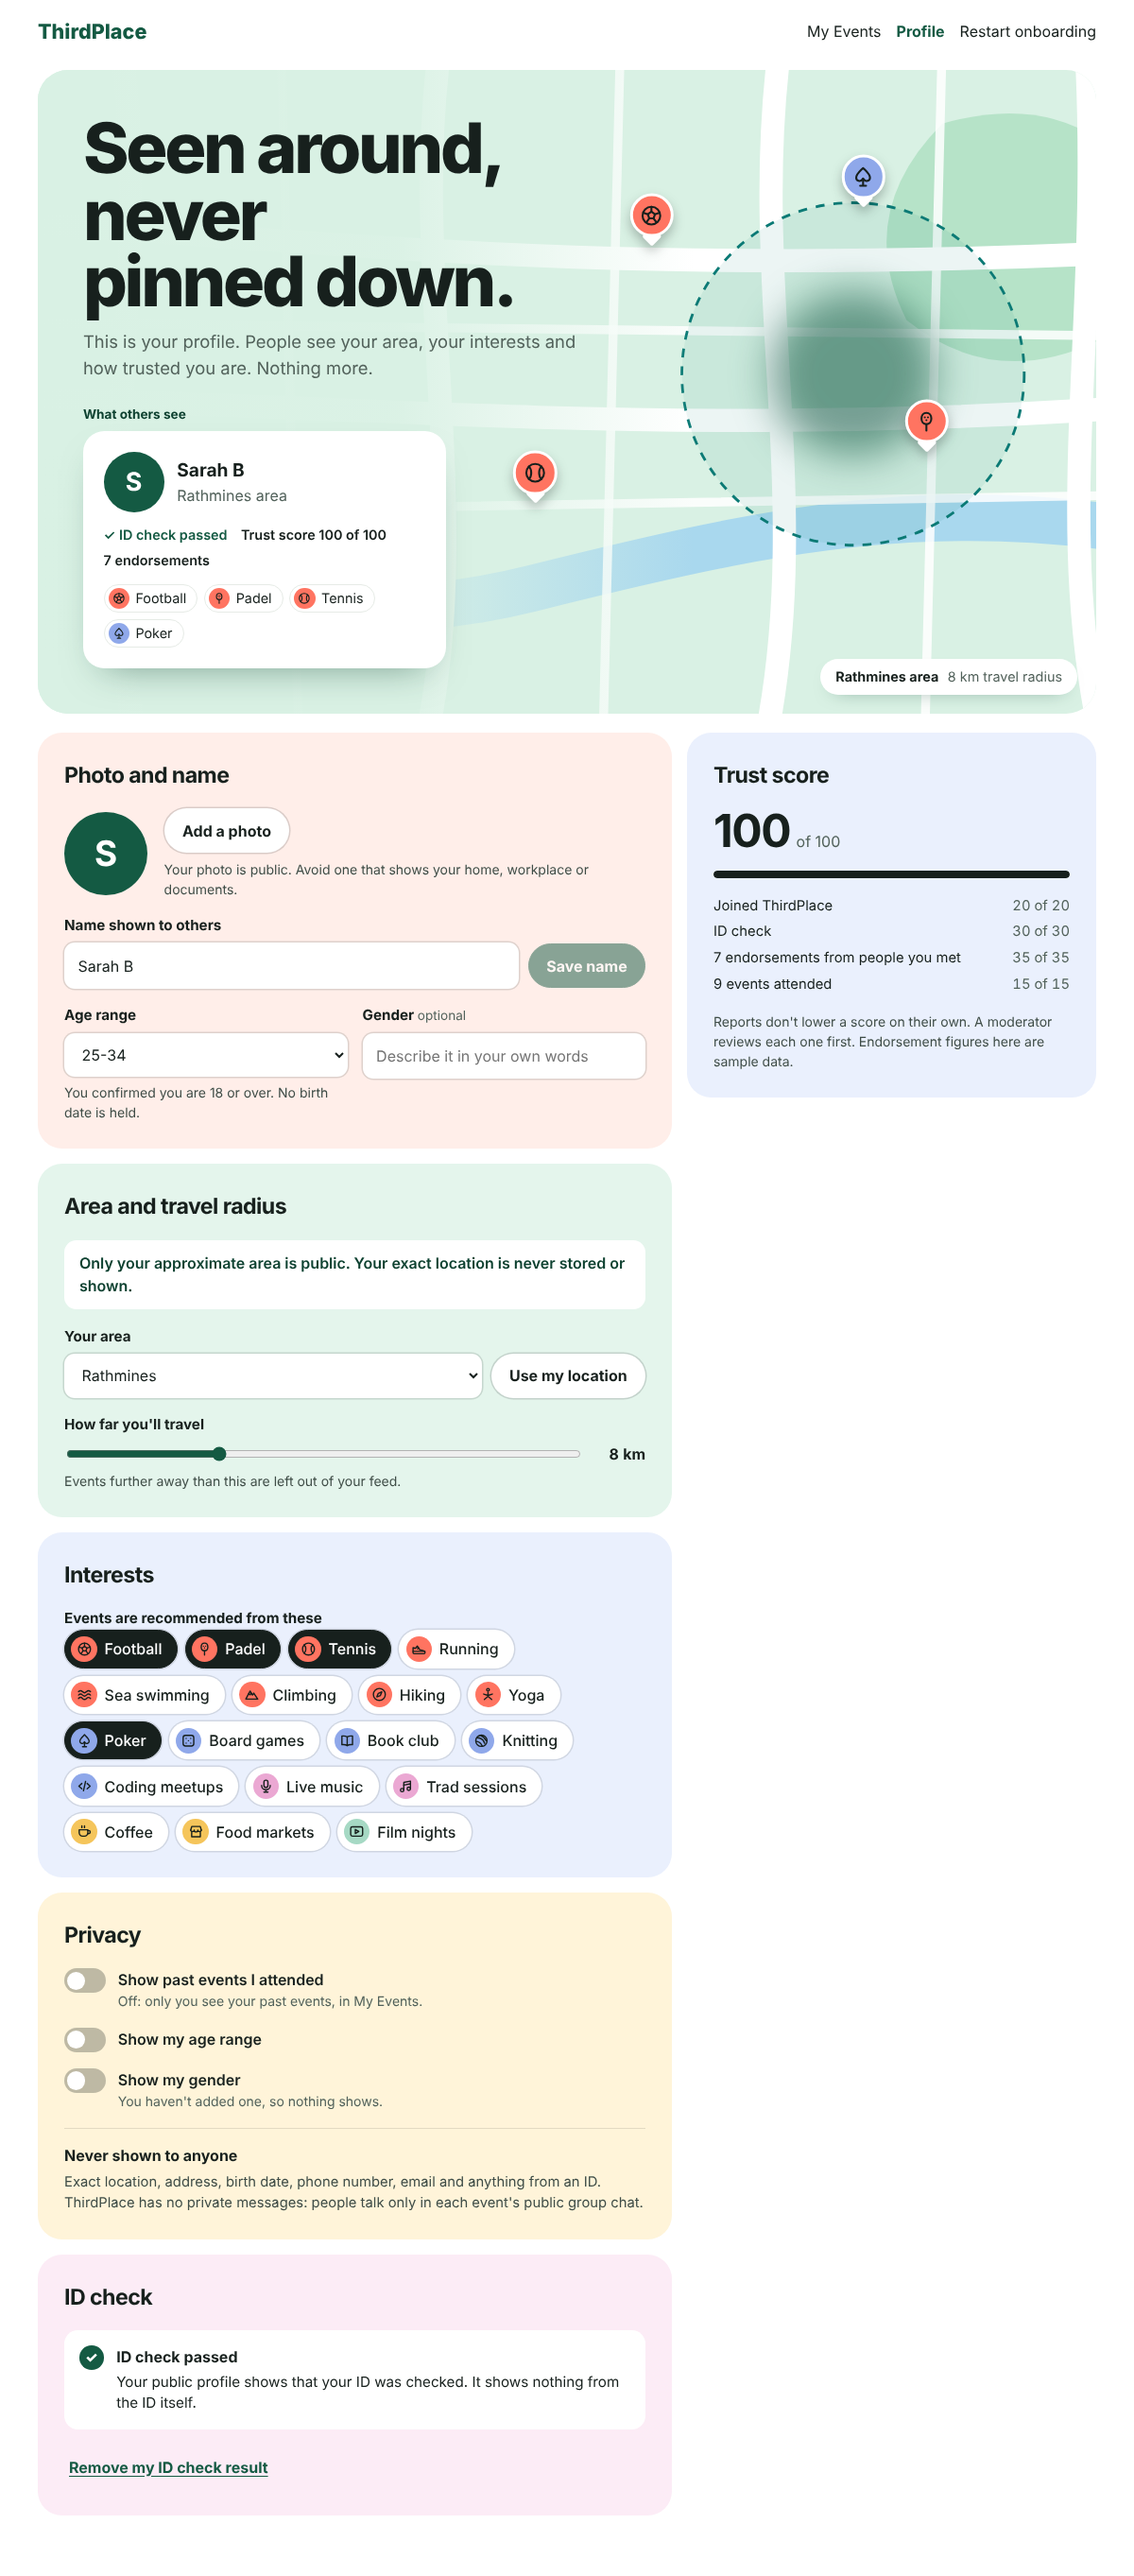
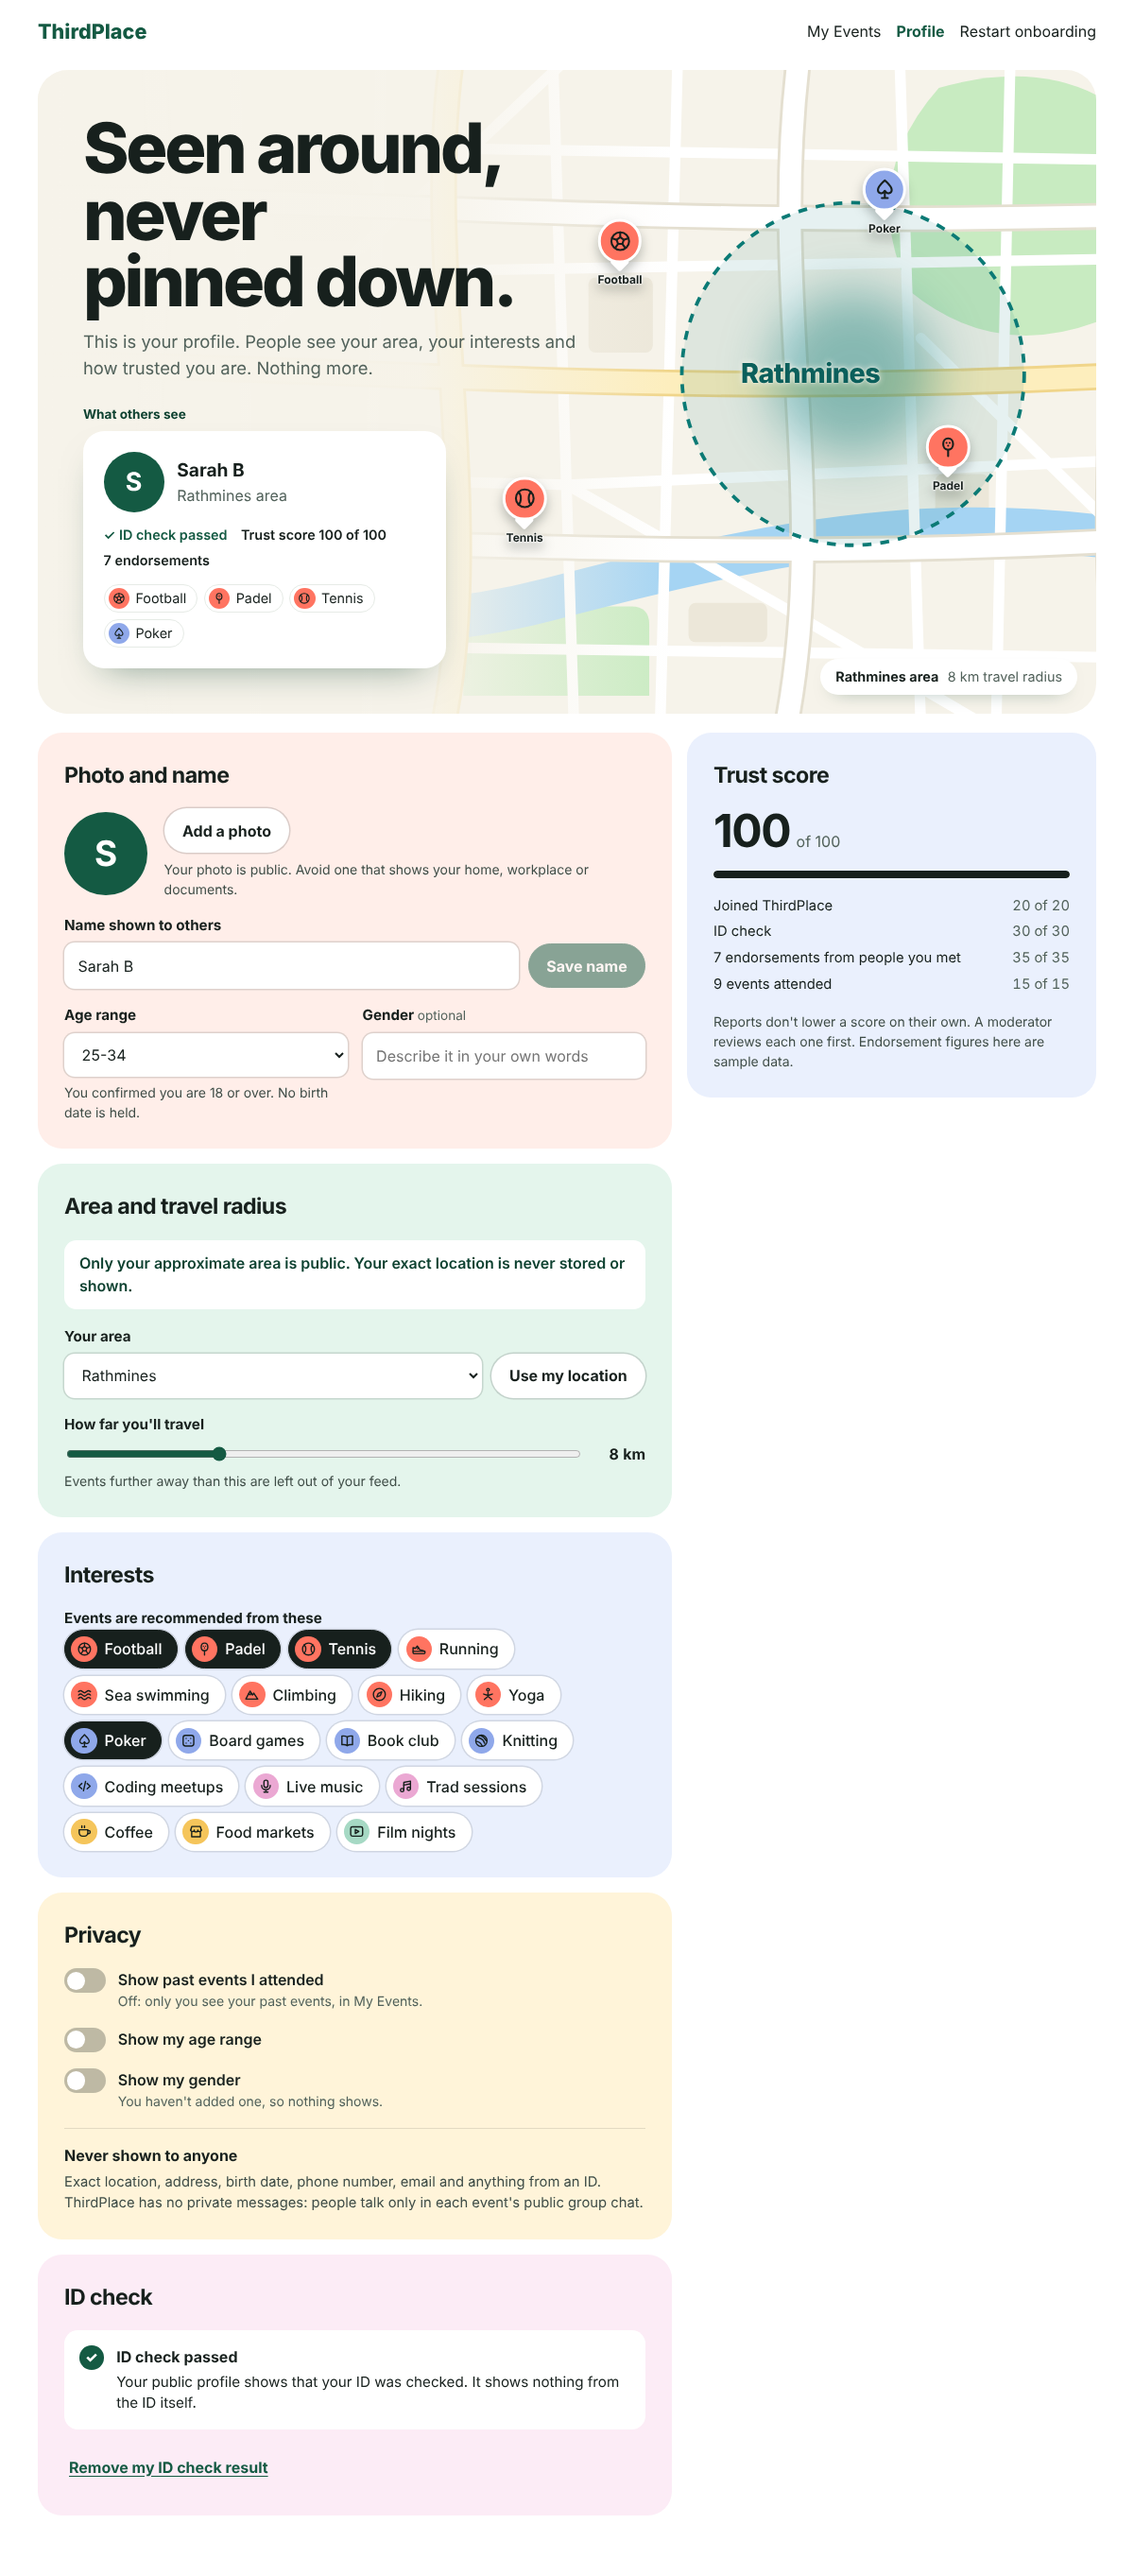
style: redraw the Profile map in a maps-app style
Pale land, white streets with casings, yellow avenues, green parks and blue
water, with labelled round markers and the area name set on the map.

Claude-Session: https://claude.ai/code/session_01TSpLLcjMmNwyMasHSNnUNU

Changed region(s): [[0.0308, 0.0, 0.9867, 0.2807]]

diff --git a/apps/web/src/features/preferences/AreaMap.tsx b/apps/web/src/features/preferences/AreaMap.tsx
@@ -3,13 +3,24 @@ import { MAX_RADIUS_KM, MIN_RADIUS_KM } from "./areas";
 import { interestLabel } from "./interests";
 
 /** Fixed spots for decorative markers, as percentages of the map. */
-const MARKER_SPOTS = [[58, 26], [84, 58], [47, 66], [78, 20], [66, 80], [92, 34]];
+const MARKER_SPOTS = [[55, 30], [86, 62], [46, 70], [80, 22], [64, 84], [93, 40]];
+
+/** Minor streets: a loose, slightly irregular grid so the illustration reads as a city. */
+const MINOR_STREETS = [
+  "M-10 38 L810 52", "M-10 118 L810 104", "M-10 222 L400 232 L810 214", "M-10 318 L810 330",
+  "M52 -10 L64 370", "M118 -10 L104 370", "M214 -10 L226 370", "M296 -10 L288 370",
+  "M392 -10 L404 370", "M462 -10 L452 370", "M586 -10 L598 370", "M648 -10 L640 370", "M752 -10 L764 370",
+  "M400 232 L520 300 L640 370", "M226 150 L330 60 L404 -10", "M598 150 L700 250 L810 290"
+];
+const MAIN_STREETS = ["M-10 76 C200 60 420 96 810 78", "M-10 266 C220 250 480 286 810 256", "M168 -10 C182 120 150 240 174 370", "M530 -10 C512 130 548 240 522 370", "M704 -10 C716 120 690 250 712 370"];
+const AVENUES = ["M-10 170 C180 150 430 196 810 164", "M336 -10 C318 110 356 250 330 370"];
 
 /**
- * A wide, stylised map band. It is an illustration, not a real map: the shaded
- * patch stands for the public area and the dashed ring grows with the travel radius.
- * Markers stand for the kinds of events the person follows. No marker ever
- * stands for the person: their own position is never drawn.
+ * A wide, stylised city map in the manner of a consumer maps app: pale land,
+ * white streets, green parks, blue water, and bold round markers.
+ * It is an illustration, not real geography. Markers stand for the kinds of
+ * events the person follows. No marker ever stands for the person: their own
+ * position is never drawn, only a soft shaded area.
  */
 export function AreaMap({ label, radiusKm, interests = [] }: { label: string; radiusKm: number; interests?: string[] }) {
   const ring = 52 + ((radiusKm - MIN_RADIUS_KM) / (MAX_RADIUS_KM - MIN_RADIUS_KM)) * 150;
@@ -18,17 +29,20 @@ export function AreaMap({ label, radiusKm, interests = [] }: { label: string; ra
       <svg viewBox="0 0 800 360" preserveAspectRatio="xMidYMid slice" role="img"
         aria-label={`Illustrated map. Others see "${label}" as a shaded area, never as a marker. Travel radius ${radiusKm} kilometres.`}>
         <rect width="800" height="360" className="tp-map-land" />
-        <path className="tp-map-park" d="M610 30 q70 -20 110 30 q30 50 -20 90 q-60 30 -110 -10 q-30 -60 20 -110z" />
-        <path className="tp-map-park" d="M70 230 q50 -30 100 0 q30 40 0 80 q-60 30 -110 0 q-20 -50 10 -80z" />
-        <path className="tp-map-water" d="M-20 300 C120 250 220 330 380 290 S640 230 820 280" />
-        <g className="tp-map-streets">
-          <path d="M-20 90 C160 70 320 130 820 96" /><path d="M-20 190 C200 170 420 220 820 180" />
-          <path d="M150 -20 C170 120 130 240 160 380" /><path d="M330 -20 C310 110 350 250 320 380" />
-          <path d="M520 -20 C500 120 540 240 510 380" /><path d="M690 -20 C700 140 670 250 700 380" />
+        <g className="tp-map-blocks">
+          <rect x="236" y="62" width="48" height="34" rx="4" /><rect x="412" y="116" width="36" height="42" rx="4" />
+          <rect x="606" y="226" width="30" height="24" rx="4" /><rect x="72" y="128" width="26" height="30" rx="4" />
+          <rect x="468" y="298" width="44" height="22" rx="4" /><rect x="722" y="96" width="24" height="48" rx="4" />
         </g>
-        <g className="tp-map-lanes">
-          <path d="M-20 140 L820 150" /><path d="M-20 250 L820 236" /><path d="M240 -20 L250 380" /><path d="M430 -20 L420 380" /><path d="M610 -20 L600 380" />
-        </g>
+        <path className="tp-map-park" d="M608 10 q78 -22 122 32 q30 52 -22 94 q-64 30 -116 -12 q-30 -62 16 -114z" />
+        <path className="tp-map-park" d="M62 236 q54 -30 104 2 q28 40 -2 78 q-60 28 -108 0 q-22 -48 6 -80z" />
+        <path className="tp-map-park" d="M352 300 h84 q10 0 10 10 v40 h-104 v-40 q0 -10 10 -10z" />
+        <path className="tp-map-water" d="M-20 312 C120 262 230 338 390 296 S650 238 820 286" />
+        <g className="tp-map-minor">{MINOR_STREETS.map((d) => <path key={d} d={d} />)}</g>
+        <g className="tp-map-main-casing">{MAIN_STREETS.map((d) => <path key={d} d={d} />)}</g>
+        <g className="tp-map-main">{MAIN_STREETS.map((d) => <path key={d} d={d} />)}</g>
+        <g className="tp-map-avenue-casing">{AVENUES.map((d) => <path key={d} d={d} />)}</g>
+        <g className="tp-map-avenue">{AVENUES.map((d) => <path key={d} d={d} />)}</g>
         <circle className="tp-ring" cx="560" cy="170" r={ring} />
         <circle className="tp-blob" cx="560" cy="170" r="46" />
       </svg>
@@ -36,10 +50,11 @@ export function AreaMap({ label, radiusKm, interests = [] }: { label: string; ra
         {interests.slice(0, MARKER_SPOTS.length).map((id, index) => (
           <li key={id} className="tp-pin" style={{ left: `${MARKER_SPOTS[index][0]}%`, top: `${MARKER_SPOTS[index][1]}%` }}>
             <InterestBadge id={id} />
-            <span className="tp-visually-hidden">{interestLabel(id)}</span>
+            <span className="tp-pin-label">{interestLabel(id)}</span>
           </li>
         ))}
       </ul>
+      <p className="tp-map-place" aria-hidden="true">{label.replace(/ area$/, "")}</p>
       <p className="tp-map-label"><strong>{label}</strong><span>{radiusKm} km travel radius</span></p>
     </div>
   );

diff --git a/apps/web/src/features/profile/profile.css b/apps/web/src/features/profile/profile.css
@@ -315,6 +315,24 @@
 .tp-person { border: 0; box-shadow: 0 0 0 1.5px var(--tp-line); }
 .tp-decision { background: #f1f4f1; }
 
+/* Maps-app look: pale land, white streets with casings, green parks, blue water */
+.tp-map-land { fill: #f6f3ea; }
+.tp-map-blocks rect { fill: #ece7d9; }
+.tp-map-park { fill: #c8ebc1; }
+.tp-map-water { stroke: #a5d4f3; stroke-width: 24; }
+.tp-map-minor path { fill: none; stroke: #ffffff; stroke-width: 6; stroke-linecap: round; stroke-linejoin: round; }
+.tp-map-main-casing path { fill: none; stroke: #e4dfd0; stroke-width: 15; stroke-linecap: round; }
+.tp-map-main path { fill: none; stroke: #ffffff; stroke-width: 12; stroke-linecap: round; }
+.tp-map-avenue-casing path { fill: none; stroke: #f0d58a; stroke-width: 15; stroke-linecap: round; }
+.tp-map-avenue path { fill: none; stroke: #fdeebd; stroke-width: 12; stroke-linecap: round; }
+.tp-map::after { background: linear-gradient(90deg, #f6f3ea 0%, rgba(246, 243, 234, 0.96) 36%, rgba(246, 243, 234, 0) 60%); }
+.tp-area-drawing svg { background: #f6f3ea; }
+.tp-map .tp-ring { fill: rgba(11, 122, 117, 0.1); stroke-width: 2; }
+.tp-map .tp-blob { fill: rgba(11, 122, 117, 0.42); filter: blur(14px); }
+.tp .tp-map-place { position: absolute; left: 73%; top: 47.2%; transform: translate(-50%, -50%); z-index: 1; font-size: clamp(1.1rem, 2.4vw, 1.9rem); font-weight: 800; letter-spacing: -0.02em; color: #0b5f5b; text-shadow: 0 0 6px #f6f3ea, 0 0 2px #f6f3ea; white-space: nowrap; pointer-events: none; }
+.tp-pin { display: grid; justify-items: center; }
+.tp-pin-label { position: absolute; top: calc(100% + 0.55rem); font-size: 0.75rem; font-weight: 700; color: var(--tp-ink); white-space: nowrap; text-shadow: 0 0 3px #fff, 0 0 3px #fff, 0 0 2px #fff; }
+
 @media (max-width: 860px) {
   .tp-profile-grid { grid-template-columns: minmax(0, 1fr); }
   .tp-sticky { position: static; }
@@ -327,6 +345,8 @@
   .tp-pin .tp-ico { width: 2.1rem; height: 2.1rem; border-width: 2px; }
   .tp-pin::after { width: 0.7rem; height: 0.7rem; bottom: -0.3rem; }
   .tp-pin:nth-child(n + 5) { display: none; }
+  .tp-pin-label { display: none; }
+  .tp .tp-map-place { left: 70%; }
   .tp-hero-card { max-width: none; }
   .tp-panel { padding: 1.1rem; border-radius: 1rem; }
   .tp-panel-narrow { padding: 1.25rem; }
